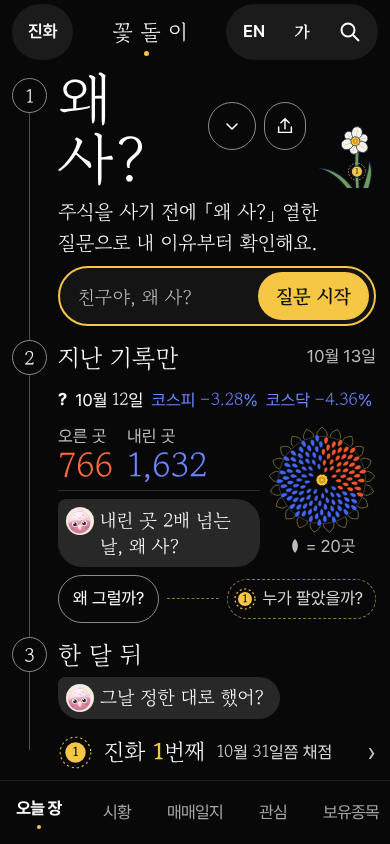
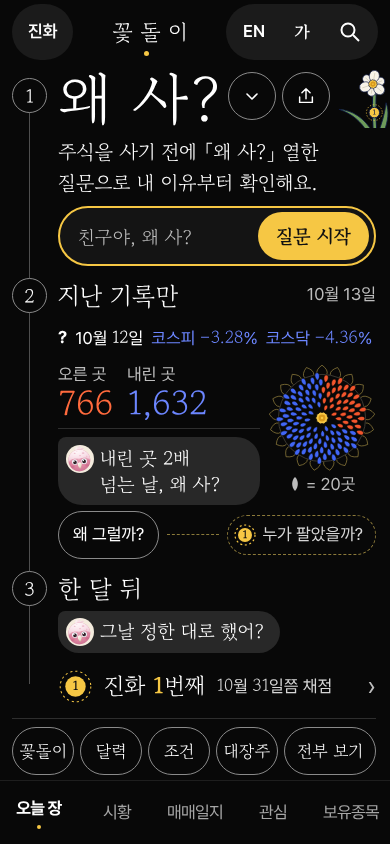
매우 스마트 석 장 — 그리는 중 사본
Claude-Session: https://claude.ai/code/session_01NCpyR4ELc71hqitZJpUS2Z

diff --git a/docs/design/kakao-2026-10-19/mock/m1.html b/docs/design/kakao-2026-10-19/mock/m1.html
@@ -37,7 +37,7 @@ button,input{font:inherit;color:inherit;background:none;border:0}
 .story::before{content:"";position:absolute;left:17px;top:26px;bottom:26px;width:1px;background:#4E4E4E}
 .ch{position:relative;padding-left:46px}
 .no{position:absolute;left:0;width:35px;height:35px;border-radius:50%;border:1px solid #8A8A8A;background:#080808;display:flex;align-items:center;justify-content:center;font-family:"Gowun Batang",serif;font-size:19px;line-height:1;color:#FFFFFF}
-.ch+.ch{margin-top:12px}
+.ch+.ch{margin-top:10px}
 
 /* 안내 — r3 그대로(금빛 아래 화살표) */
 .hint{display:inline-flex;align-items:center;flex:0 0 auto;padding:1px 10px 2px;border-radius:999px;background:#1B1B1B;border:1px solid #4E4E4E;font-size:17px;line-height:1.4;color:#FFFFFF;font-weight:400;white-space:nowrap;font-family:"Pretendard Variable","Apple SD Gothic Neo","Noto Sans CJK KR",sans-serif}
@@ -45,22 +45,23 @@ button,input{font:inherit;color:inherit;background:none;border:0}
 
 /* ① 왜 사? — 가장 큰 한 마디 · 판 없이 바탕 위에 */
 .c1 .no{top:14px}
-.c1 .head{display:flex;align-items:flex-end;gap:8px}
-.c1 .head .big{margin-right:auto}
-.c1 .head details{order:2;align-self:center}
-.c1 .head .kk-btn{order:3;align-self:center}
+.c1 .head{display:flex;align-items:flex-end;gap:6px}
+.c1 .head .big{margin-right:auto;white-space:nowrap}
+.c1 section{position:relative}
+.c1 .head::after{content:"";order:2;flex:0 0 48px;height:48px;align-self:center}
+.more summary{position:absolute;top:8px;right:114px}
+.more[open] p:first-of-type{margin-top:6px}
+.c1 .head .kk-btn{order:3;align-self:center;flex:0 0 48px}
 .c1 .head .flower{order:4}
-.c1 .head:has(details[open]){flex-wrap:wrap}
-.c1 .head details[open]{order:5;flex:1 1 100%}
-.c1 .head details summary{margin-left:auto}
+
 .big{display:block;font-size:60px;line-height:1;letter-spacing:.02em;padding-top:4px}
-.flower{flex:0 0 auto;width:66px;height:66px;display:block;margin-right:-4px}
+.flower{flex:0 0 auto;width:54px;height:60px;display:block}
 .c1 p[data-ess="1"]{margin-top:8px;font-size:20px;line-height:1.55;word-break:keep-all;color:#FFFFFF}
 .foot{display:flex;align-items:center;gap:10px;margin-top:8px}
-.head summary{list-style:none;width:48px;height:48px;display:flex;align-items:center;justify-content:center;border:1px solid #8A8A8A;border-radius:24px;cursor:pointer}
-.head summary::-webkit-details-marker{display:none}
-.head details[open] summary svg{transform:rotate(180deg)}
-.head details p{font-size:17px;color:#D6D6D6;margin:8px 0 4px;line-height:1.55}
+.more summary{list-style:none;width:48px;height:48px;display:flex;align-items:center;justify-content:center;border:1px solid #8A8A8A;border-radius:24px;cursor:pointer}
+.more summary::-webkit-details-marker{display:none}
+.more[open] summary svg{transform:rotate(180deg)}
+.more p{font-size:17px;color:#D6D6D6;margin:8px 0 4px;line-height:1.55}
 .kk-btn{width:48px;height:48px;border-radius:24px;border:1px solid #8A8A8A !important;display:flex;align-items:center;justify-content:center}
 
 .find{padding:8px 0 0}
@@ -90,7 +91,8 @@ button,input{font:inherit;color:inherit;background:none;border:0}
 .ask{display:flex;align-items:flex-start;gap:6px;background:#282828;border-radius:8px 24px 24px 24px;padding:8px 14px 8px 8px;font-size:19px;line-height:1.35;word-break:keep-all}
 .ask img{flex:0 0 auto;width:28px;height:28px}
 .ask .n{color:#FFFFFF}
-.whyrow{display:flex;align-items:center;gap:8px;margin-top:8px}
+.ask .nw{display:inline-block;white-space:nowrap}
+.whyrow{display:flex;align-items:center;gap:8px;margin-top:6px}
 .whyrow button{flex:0 0 auto;min-height:48px;padding:0 14px;border:1px solid #8A8A8A;border-radius:24px;font-size:17px;color:#FFFFFF;white-space:nowrap}
 .whyrow .wire{flex:1 1 auto;min-width:10px;height:0;border-top:1px dashed #8A7A3A}
 .peek{flex:0 0 auto;display:inline-flex;align-items:center;gap:6px;min-height:40px;padding:0 12px 0 6px;border:1px dashed #8C7A3A;border-radius:999px;font-size:17px;color:#D6D6D6;white-space:nowrap}
@@ -185,11 +187,6 @@ button,input{font:inherit;color:inherit;background:none;border:0}
     <span class="no" aria-hidden="true">1</span>
     <div class="head">
       <span class="big serif">왜 사?</span>
-      <details>
-        <summary aria-label="더 보기"><svg width="18" height="18" viewBox="0 0 18 18" fill="none" stroke="#FFFFFF" stroke-width="1.6" stroke-linecap="round" stroke-linejoin="round"><path d="M4 7l5 5 5-5"/></svg></summary>
-        <p data-ess="2">앞날을 맞히지 않아요. 코스피와 코스닥 회사 2,557곳의 지난 기록만 보여 줘요.</p>
-        <p data-ess="3">사고팔기를 권하지 않아요. 숫자는 네이버 증권에서 받아요. 마지막으로 받은 때: ?.</p>
-      </details>
       <button class="kk-btn" type="button" aria-label="친구에게 보내기"><svg width="20" height="20" viewBox="0 0 22 22" fill="none" stroke="#FFFFFF" stroke-width="1.6" stroke-linecap="round"><path d="M11 14V3M6.5 7.5L11 3l4.5 4.5M4 12v6h14v-6"/></svg></button>
       <svg class="flower" viewBox="226 26 80 86" aria-hidden="true"><defs>
 <g id="g3-bloom"><g fill="#F7F3E8" stroke="#0F1B45" stroke-width="1.3" stroke-linejoin="round"><path d="M0 -4 C 8.6 -5.6 11.6 -16 5.6 -23 Q 0 -26.8 -5.6 -23 C -11.6 -16 -8.6 -5.6 0 -4 Z" transform="rotate(60)"/><path d="M0 -4 C 8.6 -5.6 11.6 -16 5.6 -23 Q 0 -26.8 -5.6 -23 C -11.6 -16 -8.6 -5.6 0 -4 Z" transform="rotate(180)"/><path d="M0 -4 C 8.6 -5.6 11.6 -16 5.6 -23 Q 0 -26.8 -5.6 -23 C -11.6 -16 -8.6 -5.6 0 -4 Z" transform="rotate(300)"/><path d="M0 -4 C 10 -6 13.5 -18 6.5 -26 Q 0 -30.5 -6.5 -26 C -13.5 -18 -10 -6 0 -4 Z" transform="rotate(0)"/><path d="M0 -4 C 10 -6 13.5 -18 6.5 -26 Q 0 -30.5 -6.5 -26 C -13.5 -18 -10 -6 0 -4 Z" transform="rotate(120)"/><path d="M0 -4 C 10 -6 13.5 -18 6.5 -26 Q 0 -30.5 -6.5 -26 C -13.5 -18 -10 -6 0 -4 Z" transform="rotate(240)"/></g><g stroke="#BDB49C" stroke-width=".9" stroke-linecap="round"><path d="M0 -9 L0 -22" transform="rotate(0)"/><path d="M0 -9 L0 -19" transform="rotate(60)"/><path d="M0 -9 L0 -22" transform="rotate(120)"/><path d="M0 -9 L0 -19" transform="rotate(180)"/><path d="M0 -9 L0 -22" transform="rotate(240)"/><path d="M0 -9 L0 -19" transform="rotate(300)"/></g><path d="M9.20 0.00 L7.70 2.50 L7.44 5.41 L4.76 6.55 L2.84 8.75 L0.00 8.10 L-2.84 8.75 L-4.76 6.55 L-7.44 5.41 L-7.70 2.50 L-9.20 0.00 L-7.70 -2.50 L-7.44 -5.41 L-4.76 -6.55 L-2.84 -8.75 L-0.00 -8.10 L2.84 -8.75 L4.76 -6.55 L7.44 -5.41 L7.70 -2.50Z" fill="#F6C744" stroke="#0F1B45" stroke-width="1.2" stroke-linejoin="round"/><circle r="5.2" fill="#D99A1C"/><circle r="1.8" fill="#F6C744"/></g>
@@ -204,6 +201,11 @@ button,input{font:inherit;color:inherit;background:none;border:0}
 </g></svg></svg>
     </div>
     <p data-ess="1" class="serif">주식을 사기 전에 「왜 사?」 열한 질문으로 내 이유부터 확인해요.</p>
+      <details class="more">
+        <summary aria-label="더 보기"><svg width="18" height="18" viewBox="0 0 18 18" fill="none" stroke="#FFFFFF" stroke-width="1.6" stroke-linecap="round" stroke-linejoin="round"><path d="M4 7l5 5 5-5"/></svg></summary>
+        <p data-ess="2">앞날을 맞히지 않아요. 코스피와 코스닥 회사 2,557곳의 지난 기록만 보여 줘요.</p>
+        <p data-ess="3">사고팔기를 권하지 않아요. 숫자는 네이버 증권에서 받아요. 마지막으로 받은 때: ?.</p>
+      </details>
     <form class="find" data-w="find" onsubmit="return false"><div class="bar">
       <input type="search" placeholder="친구야, 왜 사?" aria-label="친구야, 왜 사? 회사 이름을 넣어요">
       <button type="submit" data-path="q1" aria-label="열한 질문 시작">질문 시작</button>
@@ -220,7 +222,7 @@ button,input{font:inherit;color:inherit;background:none;border:0}
       <div class="garden">
         <div class="left">
           <p class="nums"><span class="up" data-num><span class="lb">오른 곳</span><span class="v">766</span></span><span class="dn" data-num><span class="lb">내린 곳</span><span class="v">1,632</span></span></p>
-          <p class="ask serif" data-say aria-label="꽃돌이: 내린 곳 2배 넘는 날, 왜 사? (1,632 ÷ 766 = 2.13)"><img src="../../../../site/media/makbi-icon.svg" alt="꽃돌이"><span>내린 곳 <span class="n">2</span>배 넘는 날, 왜 사?</span></p>
+          <p class="ask serif" data-say aria-label="꽃돌이: 내린 곳 2배 넘는 날, 왜 사? (1,632 ÷ 766 = 2.13)"><img src="../../../../site/media/makbi-icon.svg" alt="꽃돌이"><span><span class="nw">내린 곳 <span class="n">2</span>배</span> <span class="nw">넘는 날, 왜 사?</span></span></p>
         </div>
         <div class="sunbox"><svg class="sun" viewBox="0 0 140 140" role="img" aria-label="씨앗 120알 · 한 알이 회사 20곳 · 다홍 38알은 오른 곳 · 남빛 82알은 내린 곳"><path d="M63.74 13.34Q61.40 7.84 70.00 1.50Q78.60 7.84 76.26 13.34M80.72 14.02Q80.10 8.07 90.19 4.54Q96.54 13.14 92.68 17.71M96.75 19.66Q97.91 13.80 108.59 13.40Q112.12 23.49 107.09 26.71M110.39 29.78Q113.23 24.52 123.56 27.29Q123.96 37.97 118.20 39.57M120.45 43.48Q124.72 39.28 133.76 44.97Q131.00 55.30 125.03 55.13M126.03 59.53Q131.34 56.78 138.31 64.88Q132.63 73.93 126.96 72.01M126.63 76.51Q132.51 75.45 136.78 85.24Q128.69 92.22 123.84 88.71M122.19 92.91Q128.13 93.63 129.32 104.25Q119.53 108.53 115.94 103.75M113.12 107.28Q118.58 109.71 116.59 120.21Q105.97 121.41 103.95 115.79M100.22 118.33Q104.72 122.27 99.72 131.72Q89.22 129.73 88.94 123.76M84.63 125.09Q87.77 130.18 80.21 137.73Q70.76 132.75 72.26 126.96M67.74 126.96Q69.24 132.75 59.79 137.73Q52.23 130.18 55.37 125.09M51.06 123.76Q50.78 129.73 40.28 131.72Q35.28 122.27 39.78 118.33M36.05 115.79Q34.03 121.41 23.41 120.21Q21.42 109.71 26.88 107.28M24.06 103.75Q20.47 108.53 10.68 104.25Q11.87 93.63 17.81 92.91M16.16 88.71Q11.31 92.22 3.22 85.24Q7.49 75.45 13.37 76.51M13.04 72.01Q7.37 73.93 1.69 64.88Q8.66 56.78 13.97 59.53M14.97 55.13Q9.00 55.30 6.24 44.97Q15.28 39.28 19.55 43.48M21.80 39.57Q16.04 37.97 16.44 27.29Q26.77 24.52 29.61 29.78M32.91 26.71Q27.88 23.49 31.41 13.40Q42.09 13.80 43.25 19.66M47.32 17.71Q43.46 13.14 49.81 4.54Q59.90 8.07 59.28 14.02" fill="none" stroke="#8C7A3A" stroke-width="1" stroke-linejoin="round"/><circle cx="70" cy="70" r="56.50" fill="none" stroke="#4A473F" stroke-width="1"/><path class="s-up" d="M73.43 60.60C76.64 59.95 78.94 54.52 76.04 53.46C73.14 52.41 71.40 58.04 73.43 60.60ZM81.72 66.32C84.25 68.53 90.12 67.01 89.17 63.99C88.22 60.96 82.54 63.06 81.72 66.32ZM80.00 58.14C83.41 58.66 87.65 54.10 85.16 52.01C82.68 49.91 78.91 54.86 80.00 58.14ZM87.20 70.80C88.88 73.86 95.15 74.46 95.30 71.17C95.46 67.88 89.16 67.90 87.20 70.80ZM72.44 51.88C75.66 50.46 76.81 44.23 73.53 43.78C70.24 43.34 69.71 49.66 72.44 51.88ZM87.16 60.16C90.28 61.87 95.99 58.97 94.33 56.06C92.66 53.16 87.27 56.61 87.16 60.16ZM89.55 78.18C90.10 81.73 95.93 84.51 97.23 81.40C98.54 78.28 92.46 76.09 89.55 78.18ZM80.28 50.44C83.88 50.20 87.18 44.61 84.17 43.03C81.17 41.45 78.44 47.34 80.28 50.44ZM93.05 66.04C95.45 68.77 101.95 67.98 101.37 64.61C100.79 61.24 94.40 62.67 93.05 66.04ZM88.83 52.92C92.35 53.95 97.48 49.75 95.15 47.19C92.82 44.62 88.14 49.31 88.83 52.92ZM96.14 74.76C97.48 78.20 103.97 79.72 104.59 76.29C105.22 72.86 98.61 72.00 96.14 74.76ZM77.22 43.66C80.79 42.62 82.88 36.26 79.50 35.34C76.12 34.41 74.68 40.95 77.22 43.66ZM96.30 59.29C99.31 61.51 105.67 59.28 104.34 56.02C103.01 52.76 96.91 55.61 96.30 59.29ZM87.45 45.44C91.21 45.69 95.42 40.35 92.52 38.29C89.62 36.24 85.97 41.97 87.45 45.44ZM101.11 68.87C103.20 72.02 110.04 72.12 109.91 68.54C109.78 64.97 102.97 65.56 101.11 68.87ZM71.62 38.27C74.96 36.45 75.66 29.62 72.07 29.44C68.49 29.26 68.48 36.11 71.62 38.27ZM96.95 51.44C100.45 52.99 106.32 49.37 104.27 46.40C102.23 43.43 96.75 47.62 96.95 51.44ZM102.01 80.38C102.91 84.12 109.39 86.58 110.50 83.14C111.62 79.69 104.93 77.89 102.01 80.38ZM83.38 38.46C87.19 37.89 90.22 31.64 86.88 30.22C83.53 28.80 81.14 35.32 83.38 38.46ZM104.03 61.21C106.82 63.90 113.66 62.49 112.74 58.96C111.83 55.42 105.17 57.50 104.03 61.21ZM94.98 43.26C98.80 44.04 103.85 39.15 101.17 36.64C98.48 34.13 93.94 39.50 94.98 43.26ZM107.26 73.64C108.97 77.16 115.96 78.20 116.31 74.52C116.67 70.85 109.62 70.51 107.26 73.64ZM76.98 32.66C80.65 31.26 82.30 24.37 78.66 23.69C75.02 23.01 74.07 30.03 76.98 32.66ZM104.60 52.46C107.96 54.52 114.46 51.63 112.78 48.31C111.09 45.00 104.92 48.52 104.60 52.46ZM90.45 35.49C94.42 35.43 98.38 29.46 95.16 27.55C91.94 25.64 88.60 31.98 90.45 35.49ZM110.60 65.14C113.07 68.27 120.24 67.77 119.80 64.04C119.35 60.31 112.27 61.52 110.60 65.14ZM102.63 43.31C106.41 44.63 112.23 40.34 109.84 37.41C107.44 34.48 102.08 39.33 102.63 43.31ZM111.75 79.82C113.02 83.65 119.99 85.66 120.86 81.96C121.73 78.27 114.59 76.96 111.75 79.82ZM83.59 28.80C87.52 27.88 90.13 21.09 86.52 19.90C82.91 18.71 80.98 25.72 83.59 28.80ZM111.64 55.48C114.78 58.04 121.78 55.99 120.52 52.38C119.27 48.78 112.50 51.52 111.64 55.48ZM98.07 34.47C102.12 34.96 106.95 29.43 103.94 27.05C100.93 24.67 96.67 30.65 98.07 34.47ZM115.97 70.67C118.05 74.19 125.40 74.66 125.46 70.81C125.52 66.96 118.16 67.22 115.97 70.67ZM74.74 23.81C78.43 22.04 79.54 14.74 75.71 14.35C71.87 13.96 71.48 21.33 74.74 23.81ZM110.11 45.30C113.78 47.16 120.27 43.59 118.24 40.30C116.21 37.00 110.11 41.19 110.11 45.30ZM114.63 87.04C115.39 91.10 122.19 94.09 123.58 90.46C124.96 86.83 117.90 84.53 114.63 87.04ZM91.07 26.63C95.18 26.23 98.77 19.70 95.27 18.00C91.77 16.30 88.85 23.15 91.07 26.63ZM117.88 60.21C120.71 63.23 128.09 62.10 127.31 58.28C126.53 54.45 119.30 56.31 117.88 60.21ZM105.92 35.29C109.95 36.33 115.60 31.39 112.87 28.57C110.14 25.75 105.01 31.23 105.92 35.29Z" fill="#F2552C" stroke="#080808" stroke-width=".7" stroke-linejoin="round"/><path class="s-dn" d="M74.12 79.98C72.17 82.66 74.17 88.28 77.05 87.09C79.94 85.90 77.39 80.50 74.12 79.98ZM59.53 65.10C59.16 61.78 53.84 58.97 52.51 61.82C51.18 64.66 56.75 66.94 59.53 65.10ZM63.49 81.23C60.11 81.31 56.79 86.43 59.55 88.03C62.31 89.63 65.10 84.20 63.49 81.23ZM67.07 56.67C69.52 54.31 68.50 48.27 65.37 48.95C62.24 49.64 63.86 55.56 67.07 56.67ZM81.69 78.22C81.47 81.63 86.33 85.42 88.19 82.79C90.04 80.15 84.83 76.86 81.69 78.22ZM55.21 71.92C53.06 69.24 46.88 69.73 47.30 72.94C47.71 76.15 53.81 75.05 55.21 71.92ZM70.67 86.08C67.79 88.02 67.73 94.26 71.00 94.13C74.26 93.99 73.69 87.77 70.67 86.08ZM58.25 58.19C59.07 54.81 54.87 50.14 52.54 52.46C50.22 54.77 54.86 58.99 58.25 58.19ZM56.37 81.37C53.05 80.25 48.00 84.06 50.12 86.59C52.23 89.13 56.88 84.84 56.37 81.37ZM80.73 85.42C79.32 88.66 82.68 94.06 85.42 92.16C88.15 90.26 84.26 85.22 80.73 85.42ZM51.18 65.77C50.04 62.41 43.88 60.70 43.15 63.96C42.42 67.22 48.71 68.31 51.18 65.77ZM63.84 89.30C60.38 90.16 58.13 96.17 61.33 97.19C64.52 98.21 66.17 92.00 63.84 89.30ZM61.30 51.18C63.29 48.20 60.88 42.23 57.82 43.64C54.76 45.05 57.75 50.76 61.30 51.18ZM49.63 77.33C46.82 75.08 40.62 76.97 41.77 80.15C42.92 83.34 48.90 80.85 49.63 77.33ZM75.74 91.79C73.25 94.40 74.59 100.77 77.88 99.91C81.18 99.04 79.20 92.83 75.74 91.79ZM50.68 57.58C50.76 53.96 45.45 50.16 43.60 53.03C41.76 55.90 47.42 59.15 50.68 57.58ZM55.42 88.82C51.80 88.43 47.53 93.41 50.24 95.51C52.96 97.61 56.71 92.23 55.42 88.82ZM68.00 45.86C70.94 43.71 70.73 37.13 67.30 37.42C63.87 37.70 64.74 44.22 68.00 45.86ZM88.08 86.72C87.36 90.31 91.97 95.02 94.31 92.49C96.65 89.96 91.60 85.73 88.08 86.72ZM44.98 69.88C43.07 66.74 36.48 66.38 36.46 69.84C36.44 73.29 43.04 72.99 44.98 69.88ZM67.62 95.70C64.31 97.32 63.37 103.90 66.83 104.22C70.28 104.54 70.57 97.90 67.62 95.70ZM54.17 49.14C55.51 45.70 51.75 40.20 48.98 42.31C46.21 44.41 50.49 49.50 54.17 49.14ZM47.19 84.35C43.87 82.71 38.05 85.98 39.91 88.94C41.77 91.89 47.24 88.06 47.19 84.35ZM82.64 94.63C80.70 97.81 83.47 103.92 86.59 102.32C89.71 100.72 86.35 94.91 82.64 94.63ZM43.71 60.25C42.98 56.59 36.81 53.95 35.58 57.24C34.36 60.54 40.77 62.56 43.71 60.25ZM57.69 95.98C53.96 96.38 50.77 102.33 53.96 103.84C57.15 105.35 59.73 99.12 57.69 95.98ZM61.43 42.19C63.90 39.37 62.24 32.82 58.86 33.86C55.48 34.90 57.79 41.26 61.43 42.19ZM95.41 84.89C95.48 88.65 101.15 92.36 102.94 89.30C104.73 86.25 98.72 83.12 95.41 84.89ZM40.87 76.25C38.28 73.53 31.58 74.62 32.32 78.09C33.07 81.56 39.62 79.81 40.87 76.25ZM73.77 100.23C70.81 102.59 71.32 109.38 74.85 108.94C78.39 108.50 77.21 101.79 73.77 100.23ZM46.55 50.04C47.13 46.30 42.16 41.62 39.85 44.34C37.54 47.06 42.95 51.21 46.55 50.04ZM47.60 92.08C43.91 91.16 38.80 95.72 41.31 98.27C43.83 100.82 48.46 95.78 47.60 92.08ZM90.44 94.74C89.21 98.35 93.31 103.86 96.08 101.57C98.85 99.28 94.22 94.21 90.44 94.74ZM37.90 65.52C36.37 62.02 29.61 60.73 29.11 64.30C28.62 67.86 35.47 68.47 37.90 65.52ZM62.59 102.20C58.96 103.42 57.08 110.06 60.60 110.87C64.11 111.68 65.33 104.88 62.59 102.20ZM53.56 40.99C55.42 37.63 52.31 31.45 49.17 33.23C46.02 35.01 49.73 40.85 53.56 40.99ZM39.10 84.09C35.91 81.94 29.46 84.50 30.97 87.80C32.47 91.10 38.64 87.91 39.10 84.09ZM81.54 102.58C79.11 105.58 81.10 112.25 84.53 111.03C87.96 109.82 85.31 103.38 81.54 102.58ZM39.23 53.63C38.99 49.77 33.01 46.20 31.29 49.42C29.58 52.63 35.89 55.60 39.23 53.63ZM50.69 99.72C46.81 99.62 42.71 105.28 45.78 107.27C48.84 109.26 52.35 103.22 50.69 99.72ZM64.12 34.75C67.05 32.21 66.25 25.25 62.63 25.85C59.02 26.46 60.52 33.30 64.12 34.75ZM98.37 92.19C97.93 96.06 103.23 100.65 105.49 97.76C107.75 94.88 102.02 90.84 98.37 92.19ZM33.80 72.82C31.51 69.67 24.49 69.86 24.78 73.52C25.06 77.18 32.03 76.29 33.80 72.82ZM69.64 106.87C66.29 108.88 65.87 115.91 69.55 115.95C73.23 115.98 72.95 108.95 69.64 106.87ZM45.17 42.36C46.29 38.61 41.84 33.13 39.10 35.60C36.35 38.06 41.32 43.07 45.17 42.36ZM39.85 92.65C36.20 91.21 30.34 95.17 32.56 98.13C34.79 101.08 40.22 96.56 39.85 92.65ZM90.22 102.48C88.46 106.00 91.90 112.20 95.05 110.24C98.19 108.28 94.15 102.45 90.22 102.48ZM32.89 59.64C31.81 55.85 25.08 53.60 24.08 57.17C23.08 60.75 30.01 62.32 32.89 59.64ZM56.24 106.56C52.36 107.31 49.53 113.84 53.01 115.15C56.49 116.46 58.67 109.68 56.24 106.56ZM55.35 33.50C57.71 30.33 55.39 23.59 51.93 24.97C48.47 26.36 51.45 32.84 55.35 33.50ZM105.70 87.13C106.10 91.07 112.38 94.48 113.99 91.11C115.61 87.75 109.02 84.98 105.70 87.13ZM31.86 81.56C28.89 78.92 21.95 80.65 23.04 84.23C24.12 87.81 30.85 85.39 31.86 81.56ZM78.28 109.52C75.39 112.25 76.51 119.33 80.18 118.56C83.85 117.79 82.03 110.86 78.28 109.52ZM36.99 46.31C37.28 42.34 31.66 37.87 29.47 40.91C27.29 43.96 33.32 47.85 36.99 46.31ZM43.18 101.20C39.24 100.57 34.28 105.78 37.13 108.23C39.99 110.69 44.40 105.00 43.18 101.20ZM68.69 28.62C72.03 26.42 72.16 19.22 68.40 19.34C64.64 19.46 65.22 26.64 68.69 28.62ZM99.09 99.81C98.11 103.69 102.88 109.10 105.58 106.46C108.28 103.83 102.99 98.92 99.09 99.81ZM28.16 67.66C26.26 64.13 19.08 63.37 18.87 67.14C18.66 70.91 25.88 70.95 28.16 67.66ZM63.94 111.97C60.25 113.55 58.86 120.66 62.60 121.20C66.35 121.74 67.03 114.53 63.94 111.97ZM45.99 34.76C47.63 31.09 43.86 24.90 40.73 27.04C37.59 29.17 41.97 34.95 45.99 34.76ZM32.36 91.08C28.85 89.11 22.34 92.34 24.20 95.66C26.05 98.97 32.21 95.11 32.36 91.08ZM87.91 109.78C85.63 113.12 88.29 119.90 91.76 118.33C95.23 116.77 91.92 110.29 87.91 109.78ZM29.71 52.67C29.13 48.67 22.58 45.46 21.07 48.96C19.57 52.46 26.40 55.01 29.71 52.67ZM48.99 109.05C44.94 109.27 41.16 115.53 44.53 117.34C47.89 119.15 51.03 112.55 48.99 109.05ZM59.06 26.79C61.89 23.88 60.45 16.71 56.75 17.65C53.04 18.59 55.18 25.58 59.06 26.79ZM107.45 94.60C107.33 98.66 113.24 102.98 115.34 99.78C117.45 96.58 111.13 92.87 107.45 94.60ZM25.53 77.20C22.88 74.11 15.59 74.92 16.20 78.71C16.82 82.49 23.99 80.96 25.53 77.20ZM73.32 115.39C70.00 117.77 70.17 125.12 74.00 124.84C77.84 124.56 76.94 117.26 73.32 115.39ZM36.73 38.61C37.56 34.62 32.47 29.31 29.83 32.10C27.19 34.90 32.79 39.68 36.73 38.61ZM35.48 100.71C31.56 99.52 25.82 104.14 28.38 107.02C30.94 109.90 36.20 104.73 35.48 100.71ZM97.84 107.44C96.32 111.24 100.43 117.39 103.53 115.08C106.63 112.77 101.93 107.07 97.84 107.44ZM23.96 61.16C22.51 57.32 15.33 55.56 14.60 59.36C13.87 63.16 21.19 64.19 23.96 61.16ZM57.04 115.53C53.08 116.63 50.70 123.65 54.43 124.71C58.16 125.77 59.83 118.55 57.04 115.53ZM48.70 27.48C50.88 23.98 47.89 17.19 44.42 18.93C40.95 20.67 44.60 27.13 48.70 27.48ZM25.37 87.66C22.07 85.19 15.03 87.57 16.46 91.19C17.89 94.80 24.66 91.73 25.37 87.66ZM83.82 116.43C81.06 119.50 82.82 126.74 86.56 125.63C90.29 124.52 87.81 117.49 83.82 116.43ZM28.26 44.99C28.22 40.85 22.02 36.70 20.02 40.05C18.01 43.39 24.59 46.90 28.26 44.99ZM41.18 109.74C37.05 109.42 32.36 115.25 35.53 117.54C38.69 119.83 42.77 113.57 41.18 109.74ZM64.38 21.02C67.65 18.46 67.17 10.99 63.28 11.44C59.40 11.88 60.62 19.26 64.38 21.02ZM107.40 102.46C106.71 106.56 112.12 111.75 114.68 108.79C117.25 105.83 111.36 101.21 107.40 102.46ZM20.28 71.33C18.02 67.84 10.52 67.67 10.63 71.59C10.73 75.50 18.20 74.93 20.28 71.33ZM66.95 120.07C63.27 122.03 62.44 129.49 66.36 129.73C70.28 129.97 70.36 122.46 66.95 120.07Z" fill="#4166F5" stroke="#080808" stroke-width=".7" stroke-linejoin="round"/><g transform="translate(70 70) scale(.9)"><path d="M9.20 0.00 L7.70 2.50 L7.44 5.41 L4.76 6.55 L2.84 8.75 L0.00 8.10 L-2.84 8.75 L-4.76 6.55 L-7.44 5.41 L-7.70 2.50 L-9.20 0.00 L-7.70 -2.50 L-7.44 -5.41 L-4.76 -6.55 L-2.84 -8.75 L-0.00 -8.10 L2.84 -8.75 L4.76 -6.55 L7.44 -5.41 L7.70 -2.50Z" fill="#F6C744" stroke="#080808" stroke-width="1.2" stroke-linejoin="round"/><circle r="5" fill="#D99A1C"/><circle r="1.8" fill="#F6C744"/></g></svg><span class="per"><svg width="12" height="16" viewBox="0 0 12 16" aria-hidden="true"><path d="M6 1C9.6 4 10 11 6 15C2 11 2.4 4 6 1Z" fill="#BDBDBD"/></svg>= 20곳</span></div>
       </div>

diff --git a/docs/design/kakao-2026-10-19/mock/m2.html b/docs/design/kakao-2026-10-19/mock/m2.html
@@ -100,6 +100,9 @@ button,input{font:inherit;color:inherit;background:none;border:0}
 .c3 .ghost img{width:30px;height:30px;opacity:1;filter:grayscale(1)}
 .c3 .mem{display:flex;align-items:center;gap:7px;margin-top:6px;font-size:17px;line-height:1.3;color:#BDBDBD;white-space:nowrap}
 .c3 .mem svg{flex:0 0 auto}
+.c3 .mem .hint::before{border-top:0;border-bottom:6px solid #F6C744}
+.c3 .mem .lk{display:inline-flex;align-items:center;gap:6px}
+.foot .kk-btn,.foot summary{flex:0 0 48px}
 /* ③ 한 달 뒤 — 꽃돌이 한 마디 */
 .c3 .say{display:inline-flex;align-items:center;gap:6px;margin-top:4px;background:#282828;border-radius:8px 24px 24px 24px;padding:7px 16px 7px 8px;font-size:19px;line-height:1.3;white-space:nowrap}
 .c3 .say img{width:28px;height:28px}
@@ -152,6 +155,9 @@ button,input{font:inherit;color:inherit;background:none;border:0}
   .garden{align-items:flex-start}
   .sun{width:86px;height:86px}
   .c3 .say{white-space:normal}
+  .ask{white-space:normal;font-size:17px;word-break:keep-all}
+  .c3 .ghost{font-size:19px;padding-right:12px}
+  .c3 .mem{flex-wrap:wrap;row-gap:4px}
   .evo{flex-wrap:wrap}
   .evo .when{flex:1 1 100%;padding-left:46px;order:3}
   .evo .go{margin-left:auto}
@@ -226,7 +232,7 @@ button,input{font:inherit;color:inherit;background:none;border:0}
   <li class="ch c3">
     <span class="no mid" aria-hidden="true">3</span>
     <p class="ghost serif" aria-label="아직 빈 자리 · 첫 기록이 생기면 한 달 뒤 꽃돌이가 여기서 물어요"><img src="../../../../site/media/makbi-icon.svg" alt="">한 달 뒤 물어볼게요</p>
-    <p class="mem"><svg width="16" height="18" viewBox="0 0 16 18" fill="none" stroke="#BDBDBD" stroke-width="1.6" stroke-linejoin="round" aria-hidden="true"><rect x="1.5" y="8" width="13" height="9" rx="2"/><path d="M4.5 8V5.5a3.5 3.5 0 0 1 7 0V8"/></svg>첫 기록 뒤 · 이 기기에만</p>
+    <p class="mem"><span class="hint">기록 뒤</span><span class="lk"><svg width="16" height="18" viewBox="0 0 16 18" fill="none" stroke="#BDBDBD" stroke-width="1.6" stroke-linejoin="round" aria-hidden="true"><rect x="1.5" y="8" width="13" height="9" rx="2"/><path d="M4.5 8V5.5a3.5 3.5 0 0 1 7 0V8"/></svg>기록은 이 기기에만</span></p>
     <a class="evo" href="#/jinhwa" aria-label="진화 칸 열기 · 「끝낸 수가 는다」 · 사장님 확인으로만">
       <svg class="stem" viewBox="0 0 48 48" aria-hidden="true"><circle cx="24" cy="24" r="21" fill="none" stroke="#F6C744" stroke-width="1.4" stroke-dasharray="3 4"/><circle cx="24" cy="24" r="14" fill="#F6C744"/><text x="24" y="30" text-anchor="middle" font-size="18" font-weight="700" fill="#111111" font-family="Gowun Batang,serif">1</text></svg>
       <b class="serif">진화 <span class="n">1</span>번째</b><span class="when"><span class="n">10</span>월 <span class="n">31</span>일쯤 채점</span><span class="go" aria-hidden="true">›</span>

diff --git a/docs/design/kakao-2026-10-19/mock/m2.why.md b/docs/design/kakao-2026-10-19/mock/m2.why.md
@@ -1,0 +1,20 @@
+# m2 · 「나를 기억하는 화면」
+
+한 줄 생각: j2 의 한 이야기 짜임과 그림은 그대로 둔다. 바뀐 것은 「내 자리」 둘뿐이다. 지금 기록이 0번이라 ① 에서 꽃돌이가 「첫 질문을 해 볼까?」 하고 먼저 말을 건다. ③ 은 점선 빈 말풍선 「한 달 뒤 물어볼게요」로 비워 둔다. 기록이 생기면 그 자리에 꽃돌이 말이 온다는 뜻이다. 그 밑 한 줄은 「기록 뒤 · 기록은 이 기기에만」이다.
+
+## 왜? 다섯
+1. 왜 ① 의 안내 「이름 넣기」를 꽃돌이 말로 바꿨나? 처음 온 사람에게 필요한 것은 할 일 이름이 아니라 첫걸음 하나다. 꽃돌이가 찾기 칸 바로 위에서 「첫 질문을 해 볼까?」라고 묻는다. 그래서 금빛 단추는 글 없이 화살표 하나로 줄였다. 말풍선이 단추의 이름이 된다.
+2. 왜 ③ 을 빈 점선 말풍선으로 두었나? 기록이 0번인데 「그날 정한 대로 했어?」를 보이면 없는 기록을 있는 척하는 셈이다. 그래서 그 자리를 점선으로 비웠다. 꽃돌이도 회색으로 기다린다. 기록이 생기면 이 자리가 채워진다는 것을 처음 온 사람도 한눈에 본다.
+3. 왜 처음 온 사람과 다시 온 사람을 한 화면에 함께 보이나? 위 ① 은 지금의 나, 아래 ③ 은 한 달 뒤의 나다. 세로 실 한 가닥 위에서 「지금 묻기 → 지난 기록 보기 → 한 달 뒤 다시 묻기」가 이어진다. 화면이 나를 기억한다는 약속이 글보다 자리로 먼저 보인다.
+4. 왜 「기록은 이 기기에만」 한 줄을 넣었나? 나를 기억한다는 말은 어디에 남느냐는 걱정을 부른다. 자물쇠 그림과 한 줄로 그 걱정을 먼저 푼다. 지어낸 기록이나 숫자는 하나도 없다. 오른 곳 766 · 내린 곳 1,632 · 날짜는 j2 그대로다.
+5. 본질: 사기 전에 한 번 멈추게 하는 곳. 처음 온 사람은 사기 전에 꽃돌이의 첫 질문 앞에서 한 번 멈춘다. 한 달 뒤에는 같은 자리에서 「정한 대로 했는지」 또 한 번 멈춘다.
+
+## 그럴까?
+글을 걷어 낸 화살표 단추만으로 무엇을 누르는지 알까? 바로 위 꽃돌이 말풍선이 「첫 질문을 해 볼까?」라고 이름을 붙여 준다. 읽어 주기 이름도 「열한 질문 시작」 그대로 두었다.
+
+## 바꿔 넣은 것 · 그대로 둔 것
+바꿔 넣은 것(글자는 더하지 않고 바꿈 · 105자 그대로): 「이름 넣기」 → 꽃돌이 말 「첫 질문을 해 볼까?」 · 「질문 시작」 글 → 화살표 · 「눌러 보기」 뺌 · ③ 제목 「한 달 뒤」와 「답하기」와 「그날 정한 대로 했어?」 → 점선 말풍선 「한 달 뒤 물어볼게요」와 「기록 뒤 · 기록은 이 기기에만」.
+그대로 둔 것: 본질 세 줄 · 숫자 · 날짜(10월 12일 · 10월 13일 · 10월 31일쯤) · 이름 꽃돌이 · 「왜 그럴까?」 둘 · 수선화 · 씨앗 120알 · 표시(data-w · data-ess · data-say · data-num · data-fact · data-path="q1" · jhBtn) · 아래 단추 다섯 · 그림자 · 그러데이션 · 흐림 · 얼굴 · 상표 · 이모지 0.
+
+## 검사
+check_white --mock: 통과 22 · 실패 2(흰 바탕 · 글 #16181D — 어두운 판이라 걸려도 되는 두 줄뿐) · 글자 105자(한도 105) · 390 × 844 다섯 칸 한 화면(찾기 324 · 오늘 422 · 꽃돌이 칸과 전부 보기 770 < 780) · 320 × 568 본질과 찾기 칸 한 화면 · 꽃돌이 말 「첫 질문을 해 볼까?」는 「?」로 끝남.
